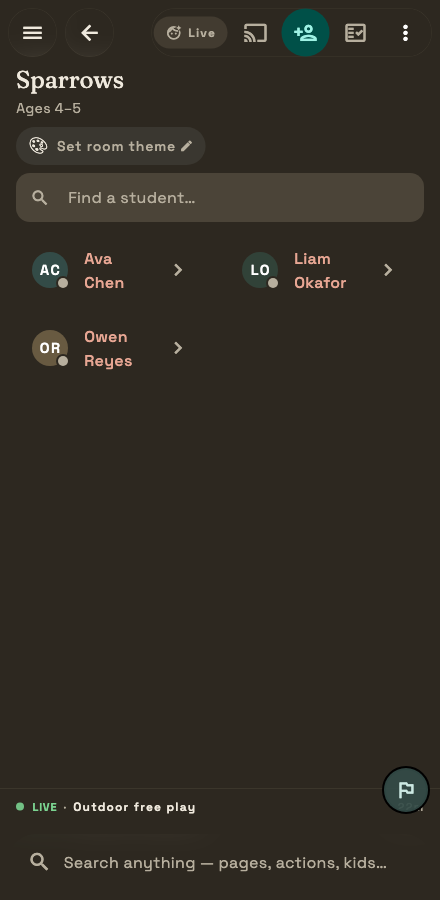
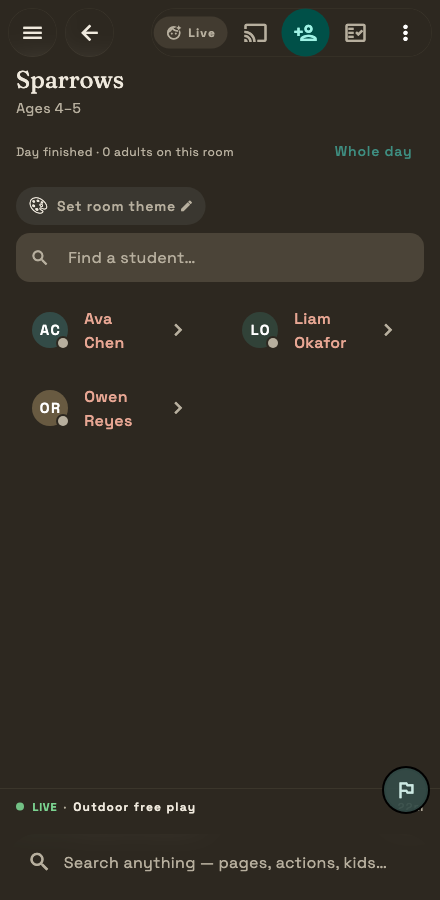
feat(rooms): the room shows its own day, and who is on it
A room could reach attendance, observations, arrangements and its
children — but not "what is Sparrows doing at 3pm". That lived only on
the program-wide schedule behind cohort tabs. A room that cannot show
its own day is a list of names, not a place.

RoomTodayStrip: the blocks still AHEAD today (a block that finished an
hour ago is history, and history is not what you glance at a room for),
plus how many adults are assigned to it — the first surface anywhere
that answers "who works in this room", which group_members has always
been able to say and nothing ever asked.

Deliberately a strip, not a second schedule: the next two blocks and a
one-line summary, with "Whole day" for the rest. Anything more and it
becomes a screen you read rather than glance at. Renders nothing when
the room has neither schedule nor staff.

Also fixed a plate-coverage gap found while checking it: group_detail
was plated with the lean roster seed, which has no schedule blocks and
no staff — so the new strip rendered empty and the plate proved nothing.
Moved to the rich seed, which exercises both the strip and the load bar.

Verify: analyze clean, 1110 tests passing, 153 screens still averaging
100.

diff --git a/lib/features/rooms/widgets/room_today_strip.dart b/lib/features/rooms/widgets/room_today_strip.dart
@@ -1,0 +1,135 @@
+import 'dart:async';
+
+import 'package:differentworld/core/db/app_database.dart';
+import 'package:differentworld/features/rooms/room_load_providers.dart';
+import 'package:differentworld/features/schedule/schedule_providers.dart';
+import 'package:differentworld/shared/format/date_keys.dart';
+import 'package:flutter/material.dart';
+import 'package:flutter_riverpod/flutter_riverpod.dart';
+import 'package:go_router/go_router.dart';
+
+/// What this room is doing today, and who is on it (docs/ROOMS.md).
+///
+/// The room used to be a roster: you could reach attendance, observations
+/// and the children, but not "what is Sparrows doing at 3pm" — that lived
+/// only on the program-wide schedule, behind cohort tabs. A room that
+/// cannot show its own day is a list of names, not a place.
+///
+/// Deliberately a STRIP, not a second schedule: the next two blocks and the
+/// adults assigned. Anything more and it becomes a screen you have to read
+/// rather than glance at.
+class RoomTodayStrip extends ConsumerWidget {
+  const RoomTodayStrip({required this.groupId, super.key});
+
+  final String groupId;
+
+  @override
+  Widget build(BuildContext context, WidgetRef ref) {
+    final theme = Theme.of(context);
+    final blocks =
+        ref
+            .watch(
+              scheduleDayForGroupProvider((
+                groupId: groupId,
+                date: todayKey(),
+              )),
+            )
+            .value ??
+        const <ScheduleBlock>[];
+    final staff = ref.watch(staffOnGroupProvider(groupId)).value ?? const [];
+
+    final now = DateTime.now();
+    // What is still ahead — a block that finished an hour ago is history,
+    // and history is not what you glance at a room for.
+    final upcoming = [
+      for (final b in blocks)
+        if ((DateTime.tryParse(b.endAt) ?? now).isAfter(now)) b,
+    ];
+
+    if (blocks.isEmpty && staff.isEmpty) return const SizedBox.shrink();
+
+    return Padding(
+      padding: const EdgeInsets.only(bottom: 12),
+      child: Column(
+        crossAxisAlignment: CrossAxisAlignment.start,
+        children: [
+          Row(
+            children: [
+              Expanded(
+                child: Text(
+                  _summary(blocks.length, upcoming.length, staff.length),
+                  style: theme.textTheme.bodySmall?.copyWith(
+                    color: theme.colorScheme.onSurfaceVariant,
+                  ),
+                ),
+              ),
+              if (blocks.isNotEmpty)
+                TextButton(
+                  onPressed: () => unawaited(context.push('/schedule')),
+                  child: const Text('Whole day'),
+                ),
+            ],
+          ),
+          for (final b in upcoming.take(2))
+            _BlockRow(block: b, groupId: groupId),
+        ],
+      ),
+    );
+  }
+
+  String _summary(int total, int ahead, int staffCount) {
+    final adults = staffCount == 1
+        ? '1 adult on this room'
+        : '$staffCount adults on this room';
+    if (total == 0) return 'Nothing scheduled today · $adults';
+    if (ahead == 0) return 'Day finished · $adults';
+    return '$ahead of $total left today · $adults';
+  }
+}
+
+class _BlockRow extends ConsumerWidget {
+  const _BlockRow({required this.block, required this.groupId});
+
+  final ScheduleBlock block;
+  final String groupId;
+
+  @override
+  Widget build(BuildContext context, WidgetRef ref) {
+    final theme = Theme.of(context);
+    final start = DateTime.tryParse(block.startAt);
+    return InkWell(
+      onTap: () => unawaited(context.push('/schedule')),
+      child: Padding(
+        padding: const EdgeInsets.symmetric(vertical: 6),
+        child: Row(
+          children: [
+            SizedBox(
+              width: 62,
+              child: Text(
+                start == null ? '' : timeOfDay(start),
+                style: theme.textTheme.bodySmall?.copyWith(
+                  color: theme.colorScheme.onSurfaceVariant,
+                ),
+              ),
+            ),
+            Expanded(
+              child: Text(
+                block.title?.trim().isNotEmpty == true
+                    ? block.title!
+                    : _kindLabel(block.kind),
+                style: theme.textTheme.bodyMedium,
+              ),
+            ),
+          ],
+        ),
+      ),
+    );
+  }
+
+  String _kindLabel(String kind) => switch (kind) {
+    'field_trip' => 'Field trip',
+    'break' => 'Break',
+    'closed' => 'Closed',
+    _ => 'Activity',
+  };
+}

diff --git a/lib/features/groups/group_detail_screen.dart b/lib/features/groups/group_detail_screen.dart
@@ -13,6 +13,7 @@ import 'package:differentworld/features/groups/room_skin_background.dart';
 import 'package:differentworld/features/groups/room_skin_picker.dart';
 import 'package:differentworld/features/groups/room_skins.dart';
 import 'package:differentworld/features/rooms/widgets/room_load_bar.dart';
+import 'package:differentworld/features/rooms/widgets/room_today_strip.dart';
 import 'package:differentworld/features/settings/bento_everywhere_setting.dart';
 import 'package:differentworld/features/subjects/subjects_providers.dart';
 import 'package:differentworld/features/today/today_providers.dart';
@@ -342,6 +343,13 @@ class _RoomIdentity extends StatelessWidget {
           Padding(
             padding: const EdgeInsets.fromLTRB(16, 0, 16, 0),
             child: RoomLoadBar(groupId: group.id),
+          ),
+        // What the room is doing today, and who is on it. A room that can't
+        // show its own day is a list of names, not a place (docs/ROOMS.md).
+        if (group != null)
+          Padding(
+            padding: const EdgeInsets.fromLTRB(16, 0, 16, 0),
+            child: RoomTodayStrip(groupId: group.id),
           ),
         // The room's permanent theme skin (docs/VISION.md).
         if (group != null)

diff --git a/test/golden/screens_gallery_test.dart b/test/golden/screens_gallery_test.dart
@@ -440,10 +440,11 @@ void main() {
 
   // Two param'd detail screens the param-free harness can't reach — seeded
   // with a cohort + roster so they render populated.
-  _rosterPlate(
+  // Uses the RICH seed (schedule blocks + staff) so the room's today-strip
+  // and load bar are actually exercised rather than rendering empty.
+  _richPlate(
     'screens/group_detail',
-    const GroupDetailScreen(groupId: 'g1'),
-    const Size(440, 900),
+    (db) async => const GroupDetailScreen(groupId: 'g1'),
   );
   _rosterPlate(
     'screens/subject_detail',
